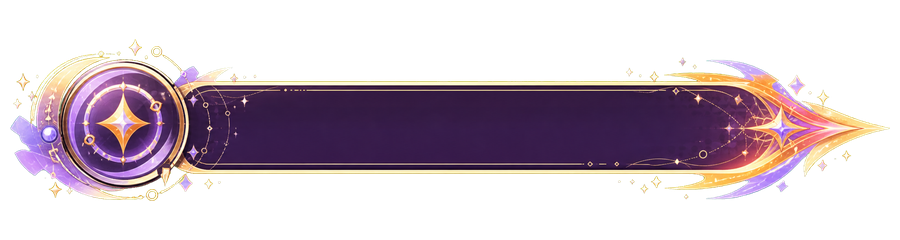
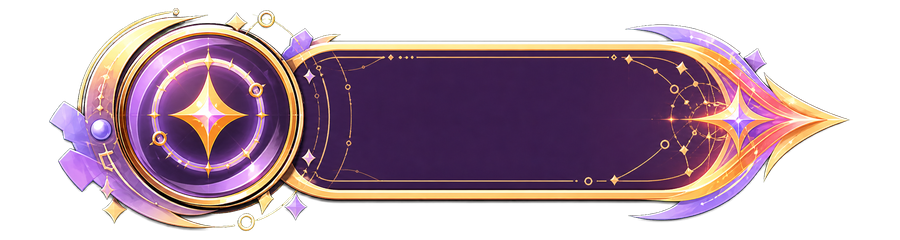
fix(ui): restore username nameplate rendering

diff --git a/src/styles/cssLayerInventory.js b/src/styles/cssLayerInventory.js
@@ -1,18 +1,18 @@
 export const CSS_DEBT_BASELINE = {
   date: "2026-07-16",
-  scope: "All CSS files under src/styles after the import-only split work, including the shared and Bright School character-music-player subdomains, admin story node settings CSS and story workbook import feedback, frontend layout polish contracts including story-player padding, game-mode icon watermark/player-plaque/nameplate/utility image contracts, the asset-owned Semantic Ignition nameplate shell plus reduced-motion owner, stable desktop utility-art tilt with direction-preserving hover rotation and scale compensation, tutorial reply-option overflow containment, mobile announcement badge anchoring, mobile utility-image feedback containment, the dedicated final-mobile login mascot lockup owner plus accessible auth field, password-visibility, pending, short-height scrolling, and reduced-motion rules, the shared/theme/final-mobile Zahira shop window plus card-layout isolation, compact-height, badge, and crayon-background owner files, cloud-deployment mobile floating layer tokens, transform-surface compositor hints, semantic home/window title typography, and the shared skill-trait description popover, admin glossary, and mobile character-detail scrolling owner rules.",
+  scope: "All CSS files under src/styles after the import-only split work, including the shared and Bright School character-music-player subdomains, admin story node settings CSS and story workbook import feedback, frontend layout polish contracts including story-player padding, game-mode icon watermark/player-plaque/nameplate/utility image contracts, the asset-owned Semantic Ignition nameplate shell plus reduced-motion owner and final post-theme readability contract, stable desktop utility-art tilt with direction-preserving hover rotation and scale compensation, tutorial reply-option overflow containment, mobile announcement badge anchoring, mobile utility-image feedback containment, the dedicated final-mobile login mascot lockup owner plus accessible auth field, password-visibility, pending, short-height scrolling, and reduced-motion rules, the shared/theme/final-mobile Zahira shop window plus card-layout isolation, compact-height, badge, and crayon-background owner files, cloud-deployment mobile floating layer tokens, transform-surface compositor hints, semantic home/window title typography, and the shared skill-trait description popover, admin glossary, and mobile character-detail scrolling owner rules.",
   metrics: {
-    totalFiles: 605,
-    totalBytes: 1188314,
-    importantCount: 7356,
-    importantFiles: 290,
+    totalFiles: 606,
+    totalBytes: 1191028,
+    importantCount: 7375,
+    importantFiles: 291,
     hardcodedHexCount: 2295,
     mediaFiles: 227,
     reducedMotionFiles: 29,
     highZIndexFiles: 6
   },
   guidance:
-    "Use this as a non-growth contract for staged CSS cleanup. The 2026-07-16 file/byte/media/reduced-motion increase records the isolated Semantic Ignition nameplate shell and motion owners; keeping that effect out of core.css preserves the generic nameplate fallback and the per-file size guard. Future cleanup should lower or explicitly justify these numbers while preserving existing visuals and avoiding visual drift."
+    "Use this as a non-growth contract for staged CSS cleanup. The 2026-07-16 file/byte/important increase records the final exact-asset Semantic Ignition nameplate owner needed to beat post-HUD Bright School and responsive important resets; keeping it separate preserves the generic fallback and makes the winning cascade boundary testable. Future cleanup should lower or explicitly justify these numbers while preserving existing visuals and avoiding visual drift."
 };
 
 export const CSS_Z_INDEX_CONTRACT = {
@@ -394,6 +394,7 @@ export const CSS_LAYER_GROUPS = [
       "mobile-adaptive/bright-school-portrait/settings-tabs/shared-active-tabs.css",
       "mobile-adaptive/information-center.css",
       "mobile-adaptive/semantic-accent-typography.css",
+      "mobile-adaptive/user-nameplate-final.css",
       "mobile-adaptive/reduced-motion.css"
     ],
     guidance: "This layer stays after themes.css imports. Move or split only with desktop and mobile verification."

diff --git a/src/styles/mobile-adaptive/user-nameplate-final.css b/src/styles/mobile-adaptive/user-nameplate-final.css
@@ -1,0 +1,39 @@
+/* Final exact-asset owner after Bright School and responsive safety layers. */
+.user-identity[data-nameplate-id="reward-sigrika-spark-100-wins-nameplate"],
+.user-identity[data-nameplate-id="reward-sigrika-spark-100-wins-nameplate"] .user-identity-main,
+.user-identity[data-nameplate-id="reward-sigrika-spark-100-wins-nameplate"] .user-identity-name-tag,
+.user-identity[data-nameplate-id="reward-sigrika-spark-100-wins-nameplate"] .user-identity-nameplate-effect,
+.app-shell.player-theme-enabled.theme-bright-school.theme-bright-school .user-identity.has-nameplate[data-nameplate-id="reward-sigrika-spark-100-wins-nameplate"],
+.app-shell.player-theme-enabled.theme-bright-school.theme-bright-school .user-identity.has-nameplate[data-nameplate-id="reward-sigrika-spark-100-wins-nameplate"] .user-identity-main,
+.app-shell.player-theme-enabled.theme-bright-school.theme-bright-school .user-identity.has-nameplate[data-nameplate-id="reward-sigrika-spark-100-wins-nameplate"] .user-identity-name-tag,
+.app-shell.player-theme-enabled.theme-bright-school.theme-bright-school .user-identity.has-nameplate[data-nameplate-id="reward-sigrika-spark-100-wins-nameplate"] .user-identity-nameplate-effect {
+  overflow: visible !important;
+}
+
+.user-identity[data-nameplate-id="reward-sigrika-spark-100-wins-nameplate"] .user-identity-name-tag,
+.app-shell.player-theme-enabled.theme-bright-school.theme-bright-school .user-identity.has-nameplate[data-nameplate-id="reward-sigrika-spark-100-wins-nameplate"] .user-identity-name-tag {
+  box-sizing: border-box !important;
+  flex: 0 0 var(--user-nameplate-width) !important;
+  width: var(--user-nameplate-width) !important;
+  min-width: var(--user-nameplate-width) !important;
+  max-width: var(--user-nameplate-width) !important;
+  height: var(--user-nameplate-height) !important;
+  min-height: var(--user-nameplate-height) !important;
+  padding-left: var(--user-nameplate-padding-left) !important;
+  padding-right: var(--user-nameplate-padding-right) !important;
+}
+
+.user-identity[data-nameplate-id="reward-sigrika-spark-100-wins-nameplate"] .user-identity-name,
+.app-shell.player-theme-enabled.theme-bright-school.theme-bright-school .user-identity.has-nameplate[data-nameplate-id="reward-sigrika-spark-100-wins-nameplate"] .user-identity-name {
+  min-width: 0 !important;
+  max-width: 100% !important;
+  overflow: hidden !important;
+  color: #fff8ee !important;
+  font-size: var(--user-nameplate-font-size) !important;
+  font-weight: 800 !important;
+  text-overflow: ellipsis !important;
+  text-shadow:
+    0 1px 1px rgba(31, 9, 48, 0.98),
+    0 0 4px rgba(255, 238, 204, 0.82) !important;
+  white-space: nowrap !important;
+}

diff --git a/docs/system-design.html b/docs/system-design.html
@@ -554,6 +554,9 @@
 <li>Shared <code>UserIdentity</code> now exposes equipped asset identity through <code>data-nameplate-id</code> and renders explicit background, pointer-transparent effect, and username layers without changing its public props or API payload. Ordinary image nameplates keep the static <code>96px x 25.6px</code> fallback. The built-in <code>reward-sigrika-spark-100-wins-nameplate</code> is an asset-owned exception in <code>hud-components/user-identity/semantic-ignition-nameplate.css</code>: its <code>900 x 240</code> transparent raster provides the orange-gold/purple magic-core shell while CSS expands the base slot to <code>120px x 32px</code> and supplies continuous glow, core rotation, sweep, and staggered sparkle motion across every <code>UserIdentity</code> consumer. Those animations only change transform and opacity, the effect layer never participates in hit testing, and <code>prefers-reduced-motion</code> keeps a static highlighted rendering. New bespoke nameplates add their own asset-ID owner; admin-created image-only nameplates require no code and continue using the generic fallback.</li>
 </ul>
 <ul>
+<li>Because Bright School and portrait/narrow-desktop safety layers load after shared HUD CSS and intentionally use broad <code>!important</code> text resets, bespoke nameplate readability is restored by the exact-asset <code>mobile-adaptive/user-nameplate-final.css</code> owner imported last. It fixes only the Semantic Ignition tag geometry, pale username color, deep-purple text shadow, ellipsis fallback, and local effect overflow; generic nameplates and surrounding student-ID layout remain unchanged. The Semantic Ignition raster keeps a <code>900 x 240</code> canvas but its non-transparent subject must occupy at least 197px vertically, so the rendered art fills the <code>120 x 32</code> slot instead of collapsing into a thin glowing strip.</li>
+</ul>
+<ul>
 <li>内置成就“你给我吃了什么！？”由 <code>seedBuiltinAchievements</code> 在启动时按需创建，监听新增后的 <code>denia-rainbow-bean-candy</code> 道具使用事件；玩家请达妮娅吃彩虹豆豆跳跳糖后解锁并获得 100 金币，不回溯统计成就上线前发生过的使用记录。</li>
 </ul>
 <ul>

diff --git a/src/styles/styleContract.test.js b/src/styles/styleContract.test.js
@@ -613,11 +613,20 @@ describe("root CSS entry contract", () => {
       "./mobile-adaptive/shop-window-redesign.css",
       "./mobile-adaptive/shop-window-card-layout.css",
       "./mobile-adaptive/shop-window-compact.css",
-      "./mobile-adaptive/shop-card-badges.css"
+      "./mobile-adaptive/shop-card-badges.css",
+      "./mobile-adaptive/user-nameplate-final.css"
     ]);
     expect(mobileEntry).not.toContain(".gacha-modal {");
     expect(mobileEntry).not.toContain(".mobile-room-screen {");
     expect(mobileEntry).not.toContain(".home-mobile-menu-panel");
+
+    const finalNameplateCss = readFileSync(new URL("./mobile-adaptive/user-nameplate-final.css", import.meta.url), "utf8");
+    expect(cssImports(mobileEntry).at(-1)).toBe("./mobile-adaptive/user-nameplate-final.css");
+    expect(finalNameplateCss).toContain('[data-nameplate-id="reward-sigrika-spark-100-wins-nameplate"]');
+    expect(finalNameplateCss).toContain('.app-shell.player-theme-enabled.theme-bright-school.theme-bright-school .user-identity.has-nameplate[data-nameplate-id="reward-sigrika-spark-100-wins-nameplate"]');
+    expect(finalNameplateCss).toContain("color: #fff8ee !important");
+    expect(finalNameplateCss).toContain("text-shadow:");
+    expect(finalNameplateCss).toContain("overflow: visible !important");
 
     const phoneCoreEntry = readFileSync(new URL("./mobile-adaptive/phone-core.css", import.meta.url), "utf8");
     expect(cssImports(phoneCoreEntry)).toEqual([

diff --git a/src/styles/hud-components/user-identity/semantic-ignition-nameplate.css b/src/styles/hud-components/user-identity/semantic-ignition-nameplate.css
@@ -12,14 +12,14 @@
 }
 
 .user-identity[data-nameplate-id="reward-sigrika-spark-100-wins-nameplate"] .user-identity-nameplate-glow {
-  inset: calc(-3px * var(--user-nameplate-scale));
+  inset: calc(-2px * var(--user-nameplate-scale));
   border-radius: 999px;
   background:
     radial-gradient(ellipse at 16% 50%, rgba(255, 198, 88, 0.72), transparent 30%),
     radial-gradient(ellipse at 78% 50%, rgba(181, 105, 255, 0.55), transparent 57%);
   filter:
-    drop-shadow(0 0 3px rgba(255, 171, 66, 0.92))
-    drop-shadow(0 0 6px rgba(151, 78, 255, 0.78));
+    drop-shadow(0 0 2px rgba(255, 171, 66, 0.92))
+    drop-shadow(0 0 4px rgba(151, 78, 255, 0.72));
   transform-origin: center;
   animation: semantic-nameplate-glow 1.6s ease-in-out infinite alternate;
 }

diff --git a/src/home/HomeScreen.test.jsx b/src/home/HomeScreen.test.jsx
@@ -657,6 +657,10 @@ describe("HomeScreen", () => {
       source.pixels[((source.height - 1) * source.width) * 4 + 3],
       source.pixels[(source.width * source.height - 1) * 4 + 3]
     ]).toEqual([0, 0, 0, 0]);
+    const visibleRows = Array.from({ length: source.height }, (_unused, y) => y)
+      .filter((y) => Array.from({ length: source.width }, (_unused, x) => source.pixels[(y * source.width + x) * 4 + 3])
+        .some((alpha) => alpha > 0));
+    expect(visibleRows.at(-1) - visibleRows[0] + 1).toBeGreaterThanOrEqual(197);
   });
 
   it("keeps the HUD footer minimal and rewrites the mobile lobby layout", () => {

diff --git a/src/styles/mobile-adaptive.css b/src/styles/mobile-adaptive.css
@@ -28,3 +28,4 @@
 @import "./mobile-adaptive/shop-window-card-layout.css";
 @import "./mobile-adaptive/shop-window-compact.css";
 @import "./mobile-adaptive/shop-card-badges.css";
+@import "./mobile-adaptive/user-nameplate-final.css";

diff --git a/.trellis/spec/frontend/quality-guidelines.md b/.trellis/spec/frontend/quality-guidelines.md
@@ -542,7 +542,7 @@ Required assertion points:
 
 #### 1. Scope / Trigger
 
-- Trigger: changing `src/shared/UserIdentity.jsx`, nameplate reward assets, `hud-components/user-identity/**`, or a surface that sizes equipped usernames.
+- Trigger: changing `src/shared/UserIdentity.jsx`, nameplate reward assets, `hud-components/user-identity/**`, `mobile-adaptive/user-nameplate-final.css`, or a surface that sizes equipped usernames.
 - Achievement nameplates are fixed-ratio username skins shared by home, room, leaderboard, social, profile, watch, personalization, and result surfaces.
 
 #### 2. Signatures
@@ -554,12 +554,12 @@ Required assertion points:
 #### 3. Contracts
 
 - Generic image nameplates use the shared `96px x 25.6px` (`3.75:1`) slot and remain static. Scene-owned `--user-nameplate-scale` scales width, height, safe padding, and font together.
-- Bespoke presentation is selected only by exact `data-nameplate-id`. Keep its shell and motion in asset-owned files under `hud-components/user-identity/`; do not add effect branches to every consumer or add a backend field for code-owned effects.
+- Bespoke presentation is selected only by exact `data-nameplate-id`. Keep its shell and motion in asset-owned files under `hud-components/user-identity/`; when a later theme or responsive safety layer uses broad `!important` resets, add a last-imported exact-asset winner under `mobile-adaptive/` for only the declarations that must survive. Do not add effect branches to every consumer or add a backend field for code-owned effects.
 - Asset owners may replace base width, height, asymmetric safe padding, font size, and text color, but must continue deriving final dimensions from `--user-nameplate-scale`.
 - Background, effect, and text have stable local stacking. Effect nodes are `aria-hidden`, `pointer-events: none`, and must not affect layout.
 - Continuous motion changes only `transform` and `opacity`; the same asset-owned motion file must provide `prefers-reduced-motion` static fallback.
 - Parent surfaces align the whole `UserIdentity`. They must not stretch the nameplate to parent width or introduce per-username font scaling. Legal usernames render in full; legacy overlong names use the existing ellipsis fallback.
-- Nameplate PNGs remain alpha-trimmed and should use a stable `3.75:1` delivery canvas. Transparent padding may reserve safe glow bleed, but must be measured because it changes apparent art size. Use `node scripts/pngTrim.mjs <input.png> [output.png]` before final resampling.
+- Nameplate PNGs remain alpha-trimmed and should use a stable `3.75:1` delivery canvas. Transparent padding may reserve safe glow bleed, but must be measured because it changes apparent art size. For the built-in `900 x 240` Semantic Ignition raster, the visible alpha subject must occupy at least 197px vertically. Use `node scripts/pngTrim.mjs <input.png> [output.png]` before final resampling.
 
 #### 4. Validation & Error Matrix
 
@@ -574,7 +574,7 @@ Required assertion points:
 - Good: an exact asset-ID selector overrides base geometry and owns its effect while every consumer keeps rendering the same `UserIdentity` component.
 - Base: an admin-created image-only nameplate needs no code and uses the static generic background layer.
 - Bad: changing the shared base size to fit one decorated asset, branching on the asset ID in each page, or baking usernames into the raster.
-- Bad: relying on visible overflow for core readability; protected home/mobile surfaces may clip the tag, so the essential shell and text must fit the fixed slot.
+- Bad: relying on overflow outside the fixed slot for essential shell or text readability. Local `overflow: visible` is allowed only for pointer-transparent glow/sparkle bleed; the raster shell and username safe area must remain complete inside the fixed slot.
 
 #### 6. Tests Required
 
@@ -582,7 +582,7 @@ Required assertion points:
 - `src/styles/hudComponents.test.js` asserts generic `96px x 25.6px`, bespoke geometry, pointer transparency, keyframe durations, and reduced-motion coverage.
 - `src/home/HomeScreen.test.jsx` asserts the equipped built-in asset hook plus checked-in PNG dimensions and transparent corners.
 - `src/styles/styleContract.test.js` and `src/styles/cssLayerInventory.test.js` own import order, file-size boundaries, motion registration, and measured debt baselines.
-- Browser QA covers legal half-width/CJK names, a legacy overlong name, title + badge coexistence, ordinary fallback, compact scaling, and no horizontal overflow at desktop, narrow desktop, and portrait phone widths.
+- Browser QA must load the full active theme cascade, not an isolated shared-HUD stylesheet. It covers legal 8-half-width/CJK names, a legacy overlong name, title + badge coexistence, ordinary fallback, compact scaling, final computed color/shadow/overflow winners, adjacent stats bounds, and no horizontal overflow at desktop, narrow desktop, and portrait phone widths.
 
 #### 7. Wrong vs Correct
 
@@ -1012,7 +1012,7 @@ Required assertion points:
 - Base terminal layout must not force a fixed minimum viewport width; `.home-screen` and `.home-grid-featured` should keep `min-width: 0`.
 - Large desktop starts at 1181px. It can use the three-column composition, but should not create horizontal page scroll.
 - The 1181px-1500px middle desktop band must reserve enough left-column width for the fixed-structure Bright School player plaque; prefer reducing column gaps and secondary-column width before shrinking plaque text below readability.
-- Bright School player plaque names must stay inside the middle identity column. Equipped nameplates use the shared fixed `3.75:1` slot and scene-owned `--user-nameplate-scale`; do not use parent-width stretching, visible overflow, or per-username `--user-identity-fit-font-size` scaling if that lets the username cover `.plaque-stats`.
+- Bright School player plaque names must stay inside the middle identity column. Equipped nameplates use the shared fixed `3.75:1` slot and scene-owned `--user-nameplate-scale`; do not use parent-width stretching, geometry overflow, or per-username `--user-identity-fit-font-size` scaling if that lets the username cover `.plaque-stats`. An exact asset owner may expose only pointer-transparent effect bleed after computed bounds prove the fixed tag still ends before `.plaque-stats` at desktop, narrow desktop, and portrait widths.
 - Generated Bright School home player plaque art must remain a shell/background asset. Avatar art, `UserIdentity`, username text, mode icons, ranks, and labels stay rendered by React DOM/CSS rather than baked into the raster image.
 - The generated plaque shell background must draw from `border-box` rather than the default padding box so the full outer frame, holes, sticker, and stats panel art cover the entire clickable card.
 - The generated plaque shell must be the only `.home-player-plaque.tactical-id-card` background layer. Do not keep the old pink/green gradient fallback or any browser/theme button background, border, radius, outline, or `box-shadow` frame on the card body; the card body may use the shared home-image `filter: drop-shadow(5px 6px 0 rgba(61, 43, 37, 0.3))` treatment and transform-only hover/focus rotation, with reduced-motion coverage.

diff --git a/docs/system-design.md b/docs/system-design.md
@@ -213,6 +213,7 @@
 - `/api/me`、`GET/PATCH /api/me/achievement-equipment` 会同时返回 `achievementEquipment` 装备 id 与 `achievementEquipmentAssets` / `equipmentAssets` 奖励资产显示数据；socket 登录用户、排行榜和社交用户列表/资料也会批量附加 `achievementEquipmentAssets`。前端通过共享 `UserIdentity` 在对弈玩家名、房间成员、排行榜、好友/黑名单、资料卡、观战列表和结算赢家名等完整用户展示点渲染称号、徽章和用户名背景；好友/黑名单列表行只展示状态、常用角色、用户名和操作入口，不再展示段位或积分，详细资料仍保留完整统计。
 - UserIdentity nameplates are rendered as fixed-ratio username badges: users without a nameplate keep natural-width text, while equipped nameplates use a `96px x 25.6px` base slot at `3.75:1`. The background image and horizontal safe padding scale together through scene-owned `--user-nameplate-scale`; username text uses shared `--user-nameplate-font-size: calc(15px * var(--user-nameplate-scale))` so it scales with the fixed badge while remaining independent from username length, and never emits `--user-identity-fit-font-size`. The fallback for extreme legacy names is ellipsis rather than per-name font shrinking. The nameplate background wraps only the username, stays centered, and must not return to parent-width stretching or left/center/right DOM slicing. The existing `/assets/achievements/semantic-nameplate.png` asset was alpha-bound checked and resampled to `900 x 240`; future nameplate PNGs should be alpha-trimmed with `scripts/pngTrim.mjs` and delivered or resampled at the same `3.75:1` ratio.
 - Shared `UserIdentity` now exposes equipped asset identity through `data-nameplate-id` and renders explicit background, pointer-transparent effect, and username layers without changing its public props or API payload. Ordinary image nameplates keep the static `96px x 25.6px` fallback. The built-in `reward-sigrika-spark-100-wins-nameplate` is an asset-owned exception in `hud-components/user-identity/semantic-ignition-nameplate.css`: its `900 x 240` transparent raster provides the orange-gold/purple magic-core shell while CSS expands the base slot to `120px x 32px` and supplies continuous glow, core rotation, sweep, and staggered sparkle motion across every `UserIdentity` consumer. Those animations only change transform and opacity, the effect layer never participates in hit testing, and `prefers-reduced-motion` keeps a static highlighted rendering. New bespoke nameplates add their own asset-ID owner; admin-created image-only nameplates require no code and continue using the generic fallback.
+- Because Bright School and portrait/narrow-desktop safety layers load after shared HUD CSS and intentionally use broad `!important` text resets, bespoke nameplate readability is restored by the exact-asset `mobile-adaptive/user-nameplate-final.css` owner imported last. It fixes only the Semantic Ignition tag geometry, pale username color, deep-purple text shadow, ellipsis fallback, and local effect overflow; generic nameplates and surrounding student-ID layout remain unchanged. The Semantic Ignition raster keeps a `900 x 240` canvas but its non-transparent subject must occupy at least 197px vertically, so the rendered art fills the `120 x 32` slot instead of collapsing into a thin glowing strip.
 - 内置成就“你给我吃了什么！？”由 `seedBuiltinAchievements` 在启动时按需创建，监听新增后的 `denia-rainbow-bean-candy` 道具使用事件；玩家请达妮娅吃彩虹豆豆跳跳糖后解锁并获得 100 金币，不回溯统计成就上线前发生过的使用记录。
 - 新增内置成就“点亮语义！”使用 `mode_character_wins` 条件统计玩家使用西格莉卡在 `spark`（星炬对弈）模式的胜场，达到 100 胜后解锁 `/assets/achievements/semantic-nameplate.png` 用户名背景；`seedBuiltinAchievements` 会让管理员默认达成所有内置成就并标记奖励已发放。
 - 启动初始化会在角色 seed 前运行 `cleanupLegacyDeniaCharacterData`：旧达妮娅 slug `danea`/`denea` 的用户选角和拥有权会迁移到 canonical `denia`，旧角色行会删除，引用旧 slug 的对局记录会删除，角色商品/抽卡/成就奖励目标会改写为 `denia`；公共角色列表会防御性忽略旧 slug，避免旧达妮娅再次出现在前台。

diff --git a/.trellis/tasks/07-16-fix-username-nameplate-rendering/prd.md b/.trellis/tasks/07-16-fix-username-nameplate-rendering/prd.md
@@ -1,0 +1,36 @@
+# 修复用户名铭牌真实主题渲染
+
+## Goal
+
+修复“点亮语义”用户名背景在真实 Bright School 首页中呈现为扁小、发虚、深色文字的问题，使其恢复为高对比、占满 120×32 槽位、具有清晰核心/名条/尾迹层次和完整常驻动效的游戏铭牌。
+
+## Requirements
+
+- 保留资产 ID、URL、UserIdentity 公共接口和 120×32 基础槽位。
+- 重制 `/assets/achievements/semantic-nameplate.png`，维持 900×240 RGBA 与 3.75:1；可见主体高度至少占画布 82%，四角保持透明。
+- 左侧核心保持圆形，名字条加厚，右侧能量尾清晰；不得烘焙用户名。
+- 在所有主题与最终移动层之后提供精确资产 ID owner，恢复浅色文字、深紫描影、高对比度和固定槽位。
+- 精确 owner 恢复效果层溢出且不改变外层页面布局；普通铭牌继续保持原样。
+- 真实 Bright School 首页 computed style 必须显示浅色文字、非空 text-shadow、120×32×场景 scale 尺寸、运行中的四组动画和不被 tag 自身裁切的效果层。
+- 同步测试、CSS inventory、系统设计和 Trellis 规范。
+
+## Acceptance Criteria
+
+- [x] 900×240 PNG 四角透明，可见 Alpha 边界高度 ≥197px。
+- [x] Bright School 首页用户名为浅色，text-shadow 不为 none。
+- [x] 该资产的 name tag 使用固定 `--user-nameplate-width/height`，tag 和 effect overflow 为 visible。
+- [x] 最长合法英文与 4 个中日韩字符完整显示；历史超长名仍省略。
+- [x] 普通图片铭牌无专属样式变化。
+- [x] 真实 Bright School 页面在 1440×900、1024×768、375×812 下无横向溢出或统计区覆盖。
+- [x] focused tests、`npm run check` 与对局回归门禁通过。
+
+## Technical Approach
+
+- 使用 image generation 对当前橙紫铭牌做比例修订，明确核心直径、名条厚度和最低垂直占用，再走纯色键抠图与 900×240 Alpha 校验。
+- 新增最终加载的 exact-asset owner，避免早期 HUD owner 再次被 Bright School 和 mobile-adaptive 的广域 `!important` 重置覆盖。
+- 用真实主题壳/已装备测试页面检查 computed style winner 和截图，不以共享 CSS 独立页面代替最终验收。
+
+## Out of Scope
+
+- 不修改数据库、成就条件、奖励发放和后台配置。
+- 不重做其他铭牌、称号、徽章或首页学生证布局。
